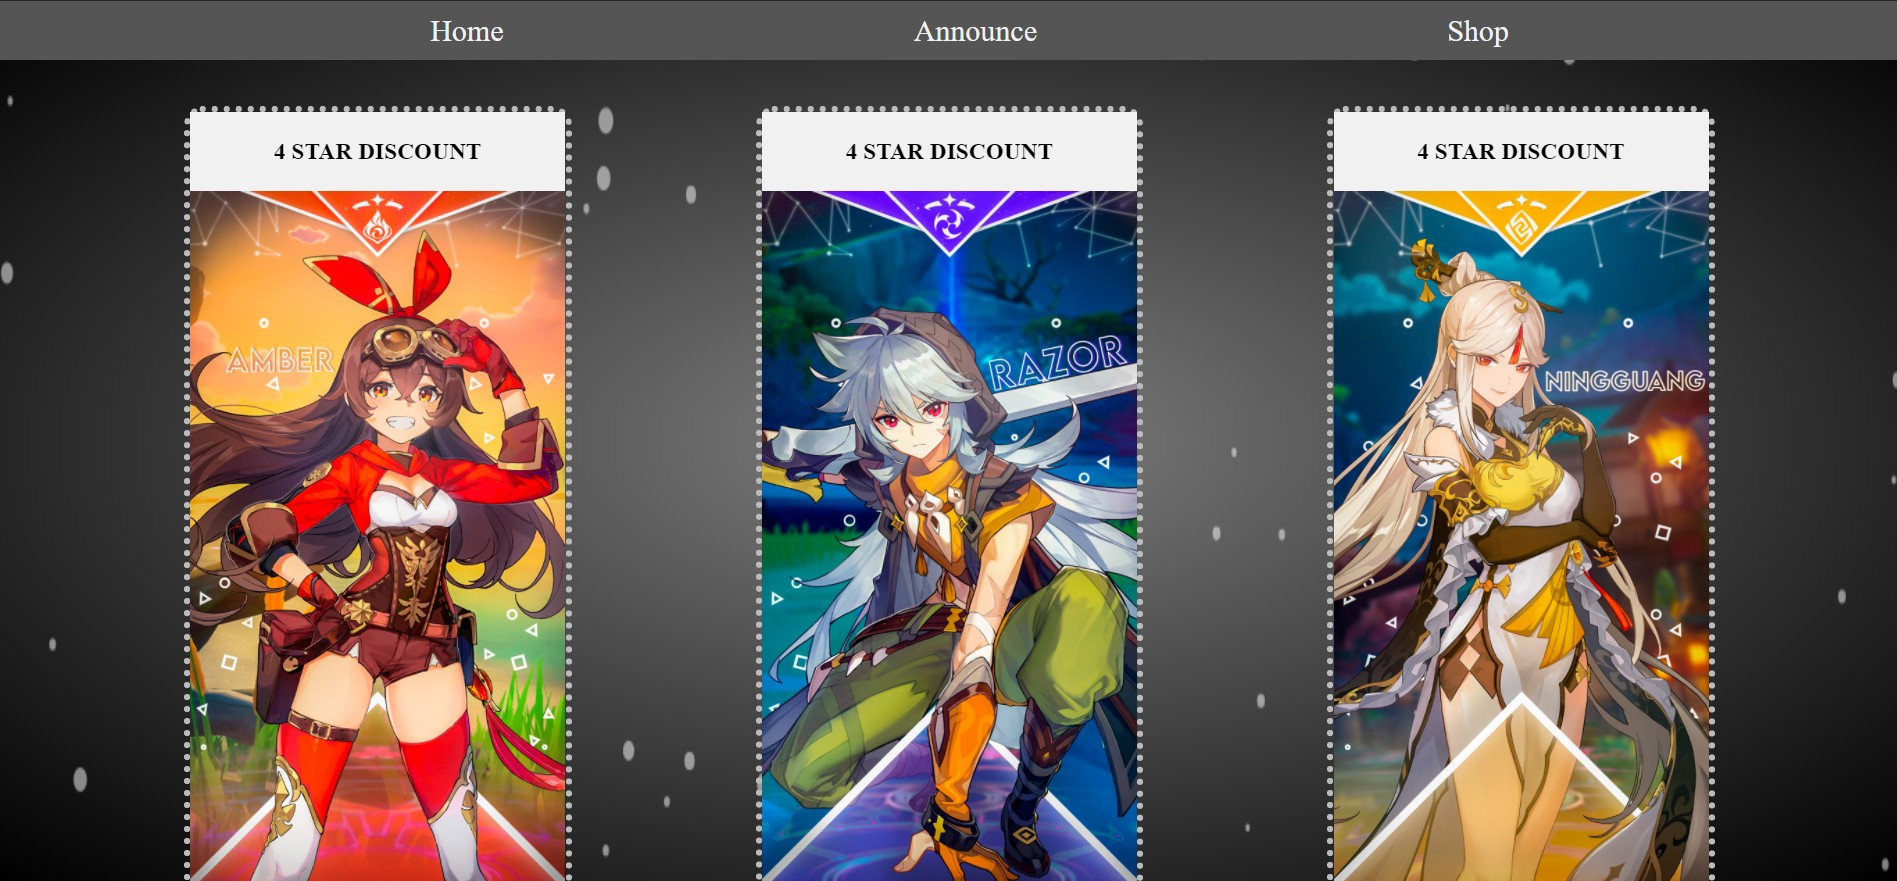
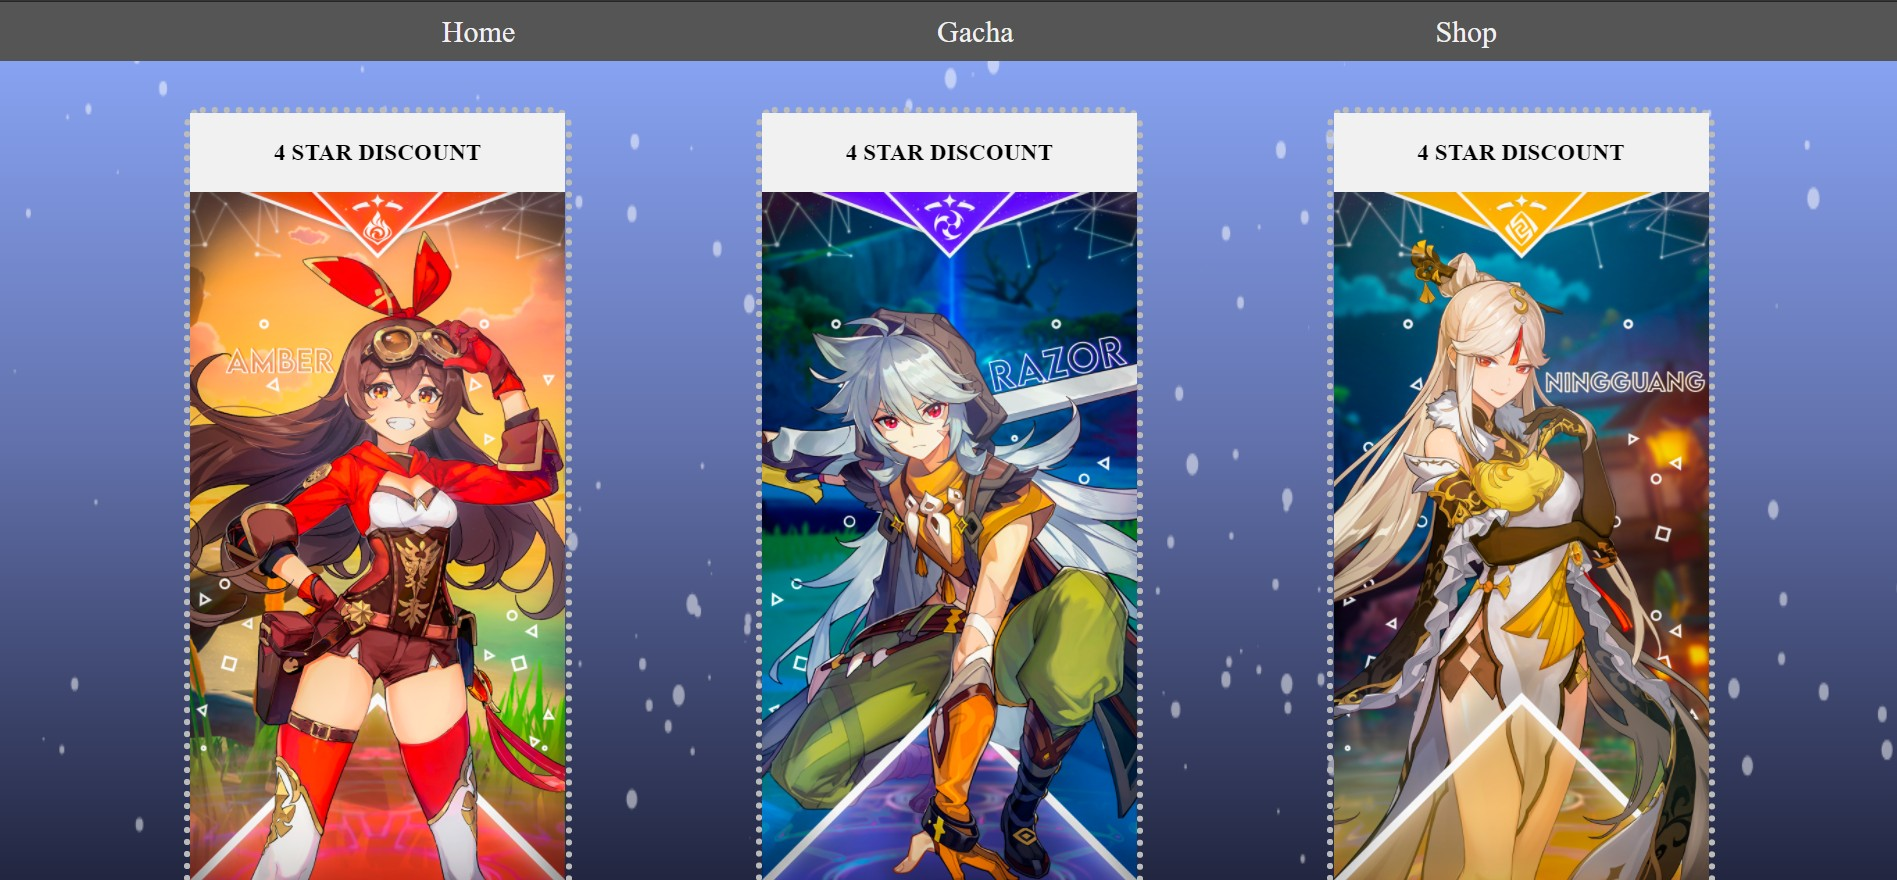
change readme picture

diff --git a/README.md b/README.md
@@ -25,12 +25,12 @@ Website Url:
 ## To Do List
 - [x] Frontend Index
 - [x] Frontend Shop
-- [x] Frontend Announcement
+- [x] Frontend Gacha
 - [x] Frontend Promo
 - [x] Particle Vanilla Background
 - [x] Flip Card Effect
-- [x] Adjust Text Font
-- [ ] Gacha Simulator
+- [x] Adjust Text Font & Size
+- [x] Gacha Simulator
 
 ## Project Status
-Project is: _Still On Going_
+Project is: _Finished_
